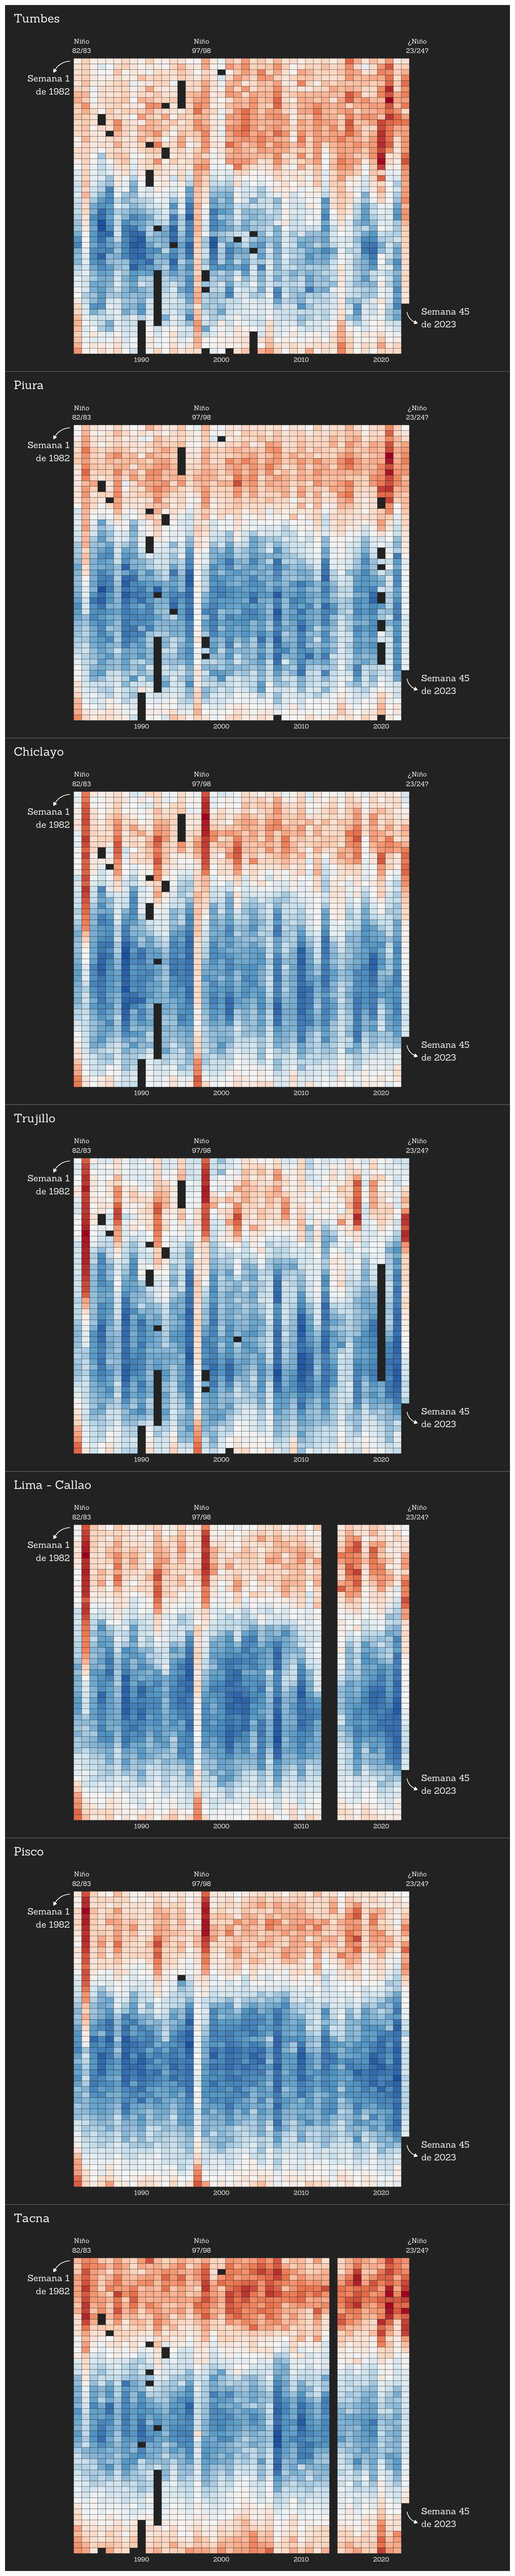
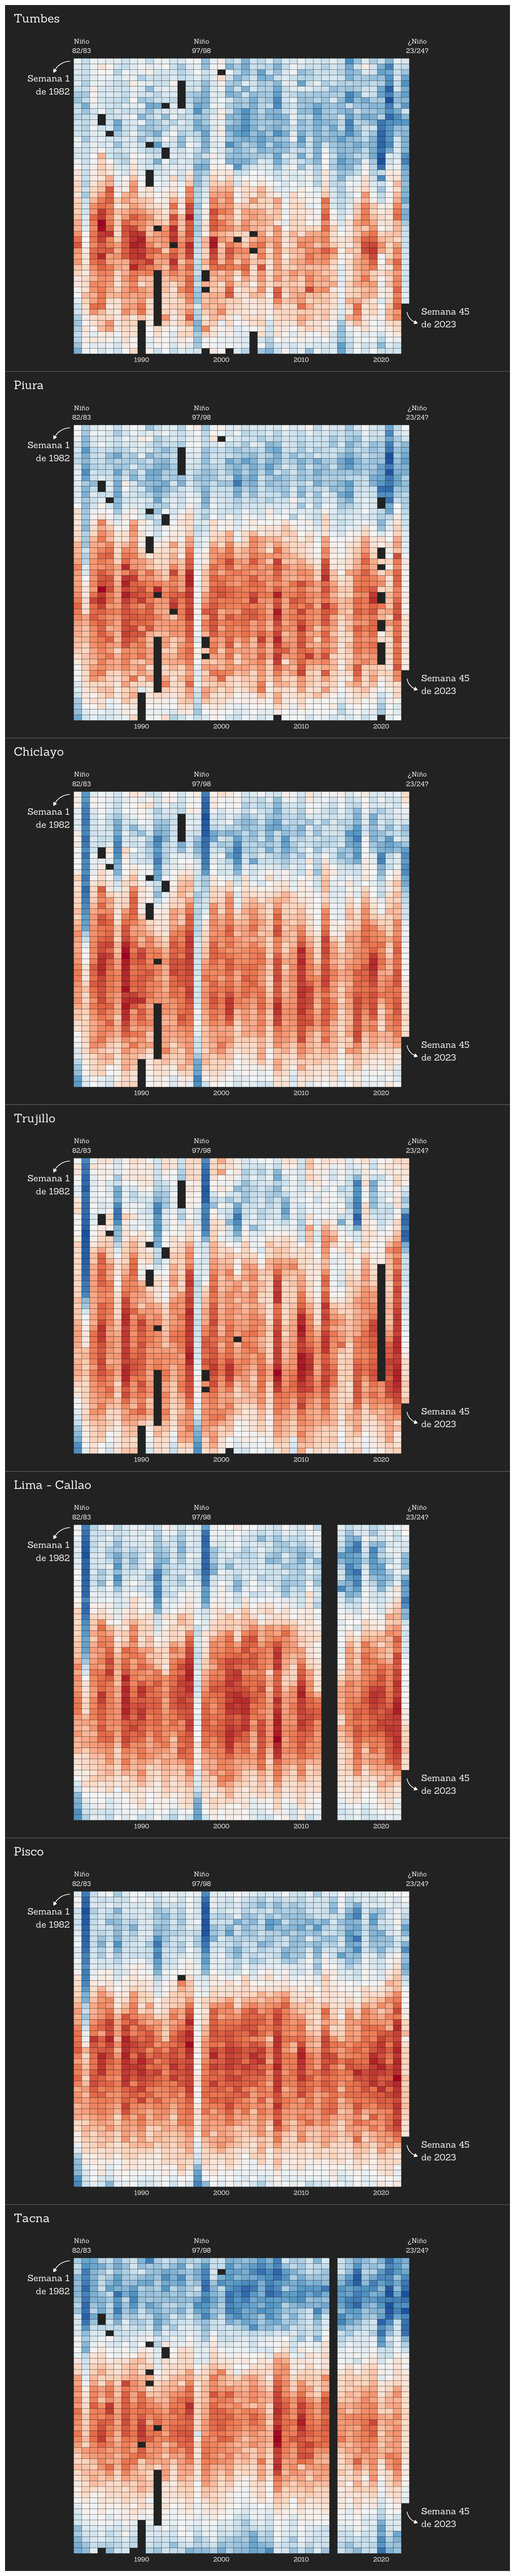
added note on insuffcient rain data, applied function to rain data, improved function to choose measurment, palette and its direction

diff --git a/calentamiento_peru.html b/calentamiento_peru.html
@@ -275,33 +275,33 @@ $ tmin &lt;dbl&gt; NaN, NaN, 8.30000, 14.19539, 13.93560, 14.80445, 14.18182, 13
 </section>
 <section id="heatmaps-lima" class="level1">
 <h1>Heatmaps Lima</h1>
-<section id="plot-base" class="level2">
-<h2 class="anchored" data-anchor-id="plot-base">Plot base</h2>
-<ul>
-<li>Creamos un theme</li>
-</ul>
-<ul>
-<li>Creamos una función para hacer el heatmap base:</li>
-</ul>
+<section id="creamos-un-theme" class="level2">
+<h2 class="anchored" data-anchor-id="creamos-un-theme">1. Creamos un theme</h2>
+</section>
+<section id="creamos-una-función-para-hacer-el-heatmap-base" class="level2">
+<h2 class="anchored" data-anchor-id="creamos-una-función-para-hacer-el-heatmap-base">2. Creamos una función para hacer el heatmap base:</h2>
 <div class="cell">
 <div class="cell-output cell-output-stdout">
 <pre><code>make_base_weekly_heatmap():</code></pre>
 </div>
 <div class="cell-output cell-output-stdout">
-<pre><code>function (weekly_dataset, custom_breaks_years = waiver(), custom_limits = waiver(), 
-    custom_breaks_fill = waiver(), custom_labels_fill = waiver()) 
+<pre><code>function (weekly_dataset, medicion, custom_breaks_years = waiver(), 
+    custom_limits = waiver(), custom_breaks_fill = waiver(), 
+    custom_labels_fill = waiver(), color_palette = "RdBu", fill_direction = 1) 
 NULL</code></pre>
 </div>
 </div>
-<p>Usamos la función para crear heatmap de Lima - Callao del 82 en adelante:</p>
+</section>
+<section id="usamos-la-función-para-crear-heatmap-de-lima---callao-del-82-en-adelante" class="level2">
+<h2 class="anchored" data-anchor-id="usamos-la-función-para-crear-heatmap-de-lima---callao-del-82-en-adelante">3. Usamos la función para crear heatmap de Lima - Callao del 82 en adelante:</h2>
 <div class="cell">
 <div class="cell-output-display">
 <p><img src="calentamiento_peru_files/figure-html/create_baselpot-1.png" class="img-fluid" width="576"></p>
 </div>
 </div>
-<ul>
-<li>Creamos una lista de anotaciones</li>
-</ul>
+</section>
+<section id="creamos-una-lista-de-anotaciones" class="level2">
+<h2 class="anchored" data-anchor-id="creamos-una-lista-de-anotaciones">4. Creamos una lista de anotaciones</h2>
 <div class="cell">
 <div class="sourceCode cell-code" id="cb20"><pre class="sourceCode r code-with-copy"><code class="sourceCode r"><span id="cb20-1"><a href="#cb20-1" aria-hidden="true" tabindex="-1"></a>annotations_list <span class="ot">&lt;-</span> <span class="fu">list</span>(</span>
 <span id="cb20-2"><a href="#cb20-2" aria-hidden="true" tabindex="-1"></a>    <span class="co"># Inicio de año</span></span>
@@ -368,7 +368,7 @@ NULL</code></pre>
 <h2 class="anchored" data-anchor-id="lluvia-heatmap">Lluvia heatmap</h2>
 <div class="cell">
 <div class="cell-output-display">
-<p><img src="calentamiento_peru_files/figure-html/unnamed-chunk-2-1.png" class="img-fluid" width="576"></p>
+<p><img src="calentamiento_peru_files/figure-html/national_rainmap_weekly-1.png" class="img-fluid" width="768"></p>
 </div>
 </div>
 </section>

diff --git a/README.md b/README.md
@@ -17,3 +17,4 @@ Estos tres archivos se fusionan en uno solo con las siguientes características:
  
  Notas:
  - NOAA_PER_1940_1979_18_STATIONS.csv no tiene datos de snow depth (SNWD)
+ - Hay demasiados missings recientes para usar los datos de precipitaciones
